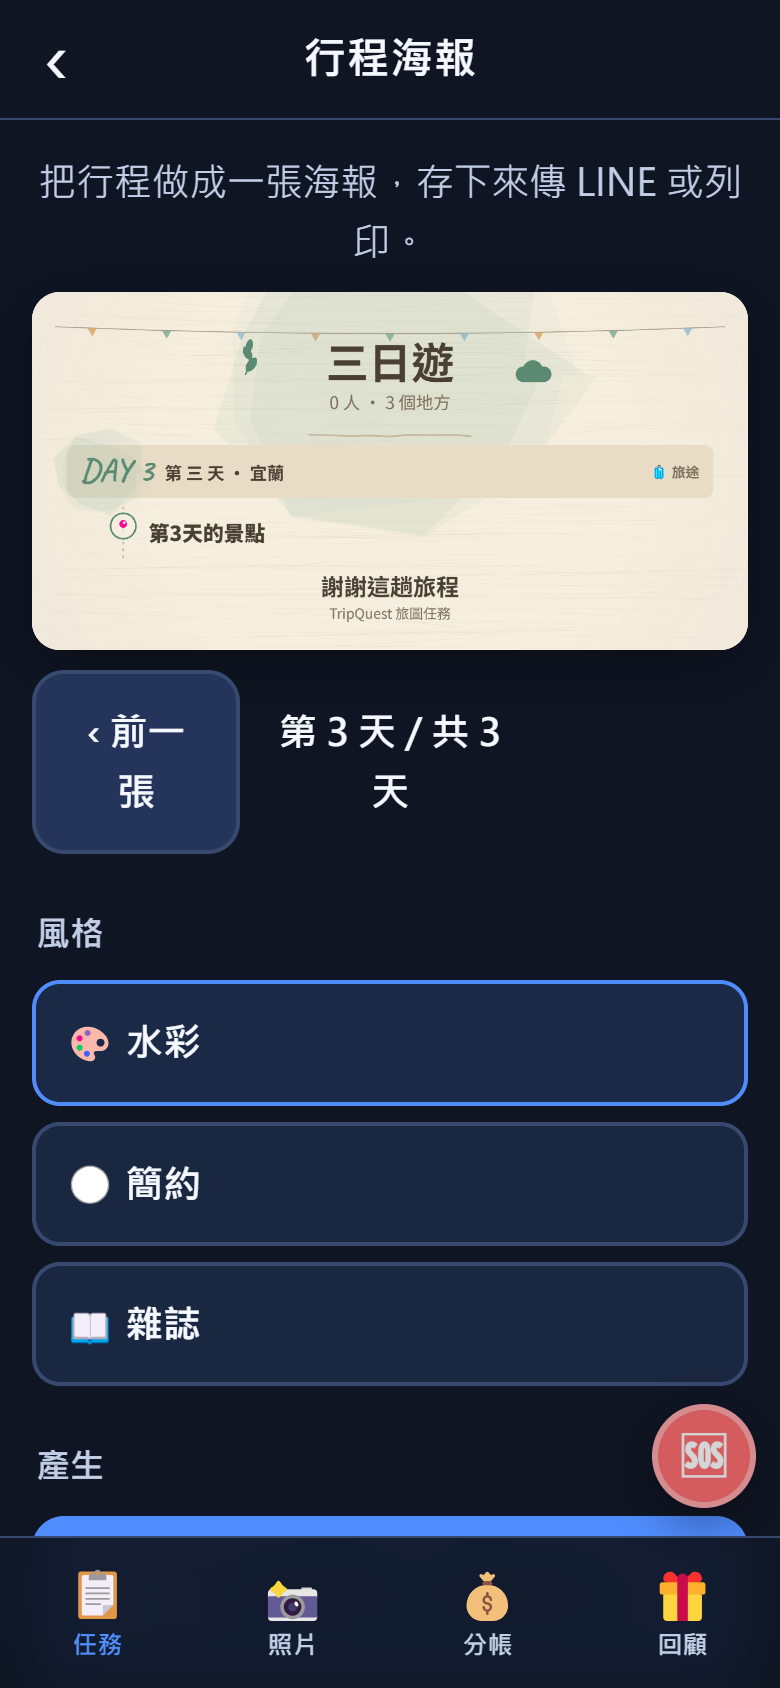
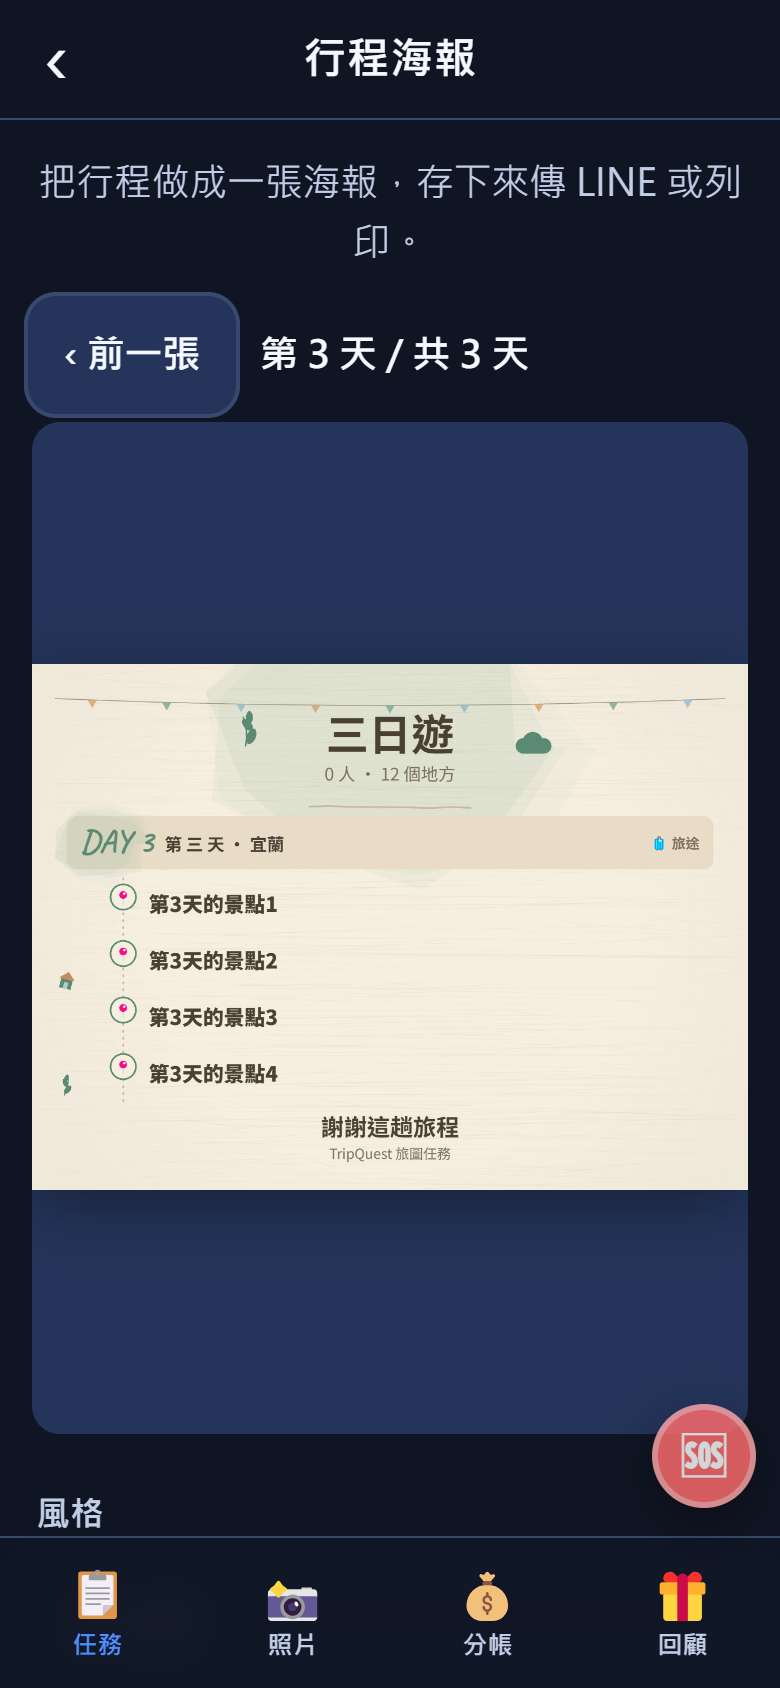
v1.48.1：海報翻頁時版面不再上下跳
每天的海報高度不一樣，換張時整個版面跟著跳、按鈕位置要重新找。三件事一起做：
1. 翻頁列移到預覽「上面」—— 位置永遠不受下面內容高度影響。
2. 一天一張的模式下，預覽容器鎖固定高度（min(60vh,560px)），短的那天置中留白
   （.poster-frame.paged）；單張模式維持原本滿版。
3. 翻頁加橫向滑動轉場（舊畫面複製一份滑出、新畫面滑入，280ms），讓人知道是
   「換頁」不是內容突變；開了「減少動態效果」就直接切換。

驗收（v147shots，三天長度故意差很大 7/1/4 個景點）：翻兩次按鈕外框座標
逐位元組相同、預覽框高度固定、短海報置中不撐開版面。翻頁列文字加 nowrap。

diff --git a/js/views/poster.js b/js/views/poster.js
@@ -19,12 +19,13 @@ export default async function poster(tripId) {
   let presetId = t.posterStyle || 'watercolor';
   let page = 0;
   const canvas = h('canvas', { class: 'poster-canvas' });
+  const frame = h('div', { class: 'poster-frame' }, canvas);
   const styleRow = h('div', { class: 'music-pick' });
   const busy = h('div', { class: 'form-hint center', hidden: true });
   // ≥3 天的行程，匯出是一天一張 —— 預覽也一張一張翻，跟成品一致
-  const pagePrev = h('button', { class: 'btn btn-soft pager-btn', onclick: () => { page--; refresh(); } }, '‹ 前一張');
+  const pagePrev = h('button', { class: 'btn btn-soft pager-btn', onclick: () => { page--; refresh(-1); } }, '‹ 前一張');
   const pageLbl = h('span', { class: 'pager-lbl' });
-  const pageNext = h('button', { class: 'btn btn-soft pager-btn', onclick: () => { page++; refresh(); } }, '下一張 ›');
+  const pageNext = h('button', { class: 'btn btn-soft pager-btn', onclick: () => { page++; refresh(1); } }, '下一張 ›');
   const pager = h('div', { class: 'pager', hidden: true }, pagePrev, pageLbl, pageNext);
 
   function drawStyles() {
@@ -35,18 +36,46 @@ export default async function poster(tripId) {
   }
   drawStyles();
 
-  async function refresh() {
+  // dir：-1 往前翻、+1 往後翻、0 首次或換風格。
+  // 每天的海報高度不一樣，直接換內容整個版面會上下跳、按鈕也跟著跑 ——
+  // 所以 (1) 翻頁列放在預覽「上面」（位置永遠不受下面內容影響）、
+  // (2) 有多張時預覽容器鎖成固定高度、短的那張置中留白（.paged）、
+  // (3) 翻頁時舊畫面往旁邊滑出、新畫面滑入，讓人知道是「換頁」不是內容突變。
+  async function refresh(dir = 0) {
     busy.hidden = false; busy.textContent = '繪製預覽…';
     try {
+      const animate = dir !== 0 && !document.documentElement.classList.contains('reduce-motion');
+      let ghost = null;
+      if (animate && canvas.width) {
+        ghost = document.createElement('canvas');
+        ghost.width = canvas.width; ghost.height = canvas.height;
+        ghost.getContext('2d').drawImage(canvas, 0, 0);
+        const fr = frame.getBoundingClientRect(), cr = canvas.getBoundingClientRect();
+        ghost.className = 'poster-ghost';
+        Object.assign(ghost.style, {
+          left: (cr.left - fr.left) + 'px', top: (cr.top - fr.top) + 'px',
+          width: cr.width + 'px', height: cr.height + 'px',
+        });
+        frame.append(ghost);
+      }
       const info = await renderPreview(canvas, tripId, presetId, page);
       page = info.page;
       pager.hidden = info.pages <= 1;
+      frame.classList.toggle('paged', info.pages > 1);
       // 「第 1 天」＋「1 / 3 張」講的是同一件事 —— 一句就好。
       // 兩端用 visibility 藏（不是 disabled）：第一張根本沒有「前一張」可去，
       // 灰掉的按鈕還是會被按；用 visibility 而非移除，中間的字才不會左右跳。
       pageLbl.textContent = `${info.label} / 共 ${info.pages} 天`;
       pagePrev.style.visibility = info.page === 0 ? 'hidden' : 'visible';
       pageNext.style.visibility = info.page >= info.pages - 1 ? 'hidden' : 'visible';
+      if (ghost) {
+        const dist = frame.clientWidth || 360;
+        ghost.animate([{ transform: 'translateX(0)' }, { transform: `translateX(${-dir * dist}px)` }],
+          { duration: 280, easing: 'ease' });
+        canvas.animate([{ transform: `translateX(${dir * dist}px)` }, { transform: 'translateX(0)' }],
+          { duration: 280, easing: 'ease' });
+        setTimeout(() => ghost.remove(), 340);
+      }
     } catch (e) { console.error(e); toast('預覽失敗：' + e.message); }
     busy.hidden = true;
   }
@@ -54,8 +83,8 @@ export default async function poster(tripId) {
 
   render(h('div', { class: 'page' },
     h('p', { class: 'muted center', style: 'margin:0 0 10px' }, '把行程做成一張海報，存下來傳 LINE 或列印。'),
-    h('div', { class: 'poster-frame' }, canvas),
     pager,
+    frame,
     busy,
     h('div', { class: 'section-label' }, '風格'),
     styleRow,

diff --git a/css/style.css b/css/style.css
@@ -838,6 +838,17 @@ textarea.field { resize: vertical; line-height: 1.6; }
 /* ---------- 相簿 / 影片 ---------- */
 .poster-frame { border-radius: 14px; overflow: hidden; background: #fff; box-shadow: 0 8px 30px rgba(0,0,0,.35); max-width: 100%; }
 .poster-canvas { display: block; width: 100%; height: auto; }
+/* 一天一張的模式：容器鎖固定高度，短的那天置中留白 —— 翻頁時版面完全不動 */
+.poster-frame.paged {
+  position: relative; height: min(60vh, 560px);
+  display: flex; align-items: center; justify-content: center;
+  background: var(--bg-elev-2); box-shadow: none;
+}
+.poster-frame.paged .poster-canvas {
+  width: auto; height: auto; max-width: 100%; max-height: 100%;
+  box-shadow: 0 8px 30px rgba(0, 0, 0, 0.35);
+}
+.poster-ghost { position: absolute; pointer-events: none; }
 
 .album-frame { position: relative; border-radius: 18px; overflow: hidden; background: var(--bg); width: fit-content; margin: 0 auto; }
 .album-canvas { display: block; width: auto; max-width: 100%; height: 46vh; margin: 0 auto; aspect-ratio: 9 / 16; object-fit: contain; background: var(--bg); }
@@ -852,8 +863,8 @@ textarea.field { resize: vertical; line-height: 1.6; }
 }
 .scrub-time { padding: 6px 10px; text-align: center; font-size: 0.92rem; color: var(--muted); background: var(--bg); font-variant-numeric: tabular-nums; }
 .pager { display: flex; align-items: center; justify-content: center; gap: 10px; margin: 10px 0 2px; }
-.pager-btn { min-height: 44px; }
-.pager-lbl { font-weight: 700; min-width: 130px; text-align: center; }
+.pager-btn { min-height: 44px; white-space: nowrap; }
+.pager-lbl { font-weight: 700; min-width: 130px; text-align: center; white-space: nowrap; }
 .record-overlay {
   position: fixed; inset: 0; z-index: 90;
   background: rgba(5, 8, 16, 0.92);

diff --git a/sw.js b/sw.js
@@ -3,7 +3,7 @@
  * - 導覽請求：network-first，離線時回退 index.html
  * - 維基百科等跨網域請求：不快取、直接 network（失敗就失敗，非關鍵路徑）
  */
-const VERSION = 'tripquest-v1.48.0';
+const VERSION = 'tripquest-v1.48.1';
 const SHELL = `${VERSION}-shell`;
 
 const SHELL_ASSETS = [
